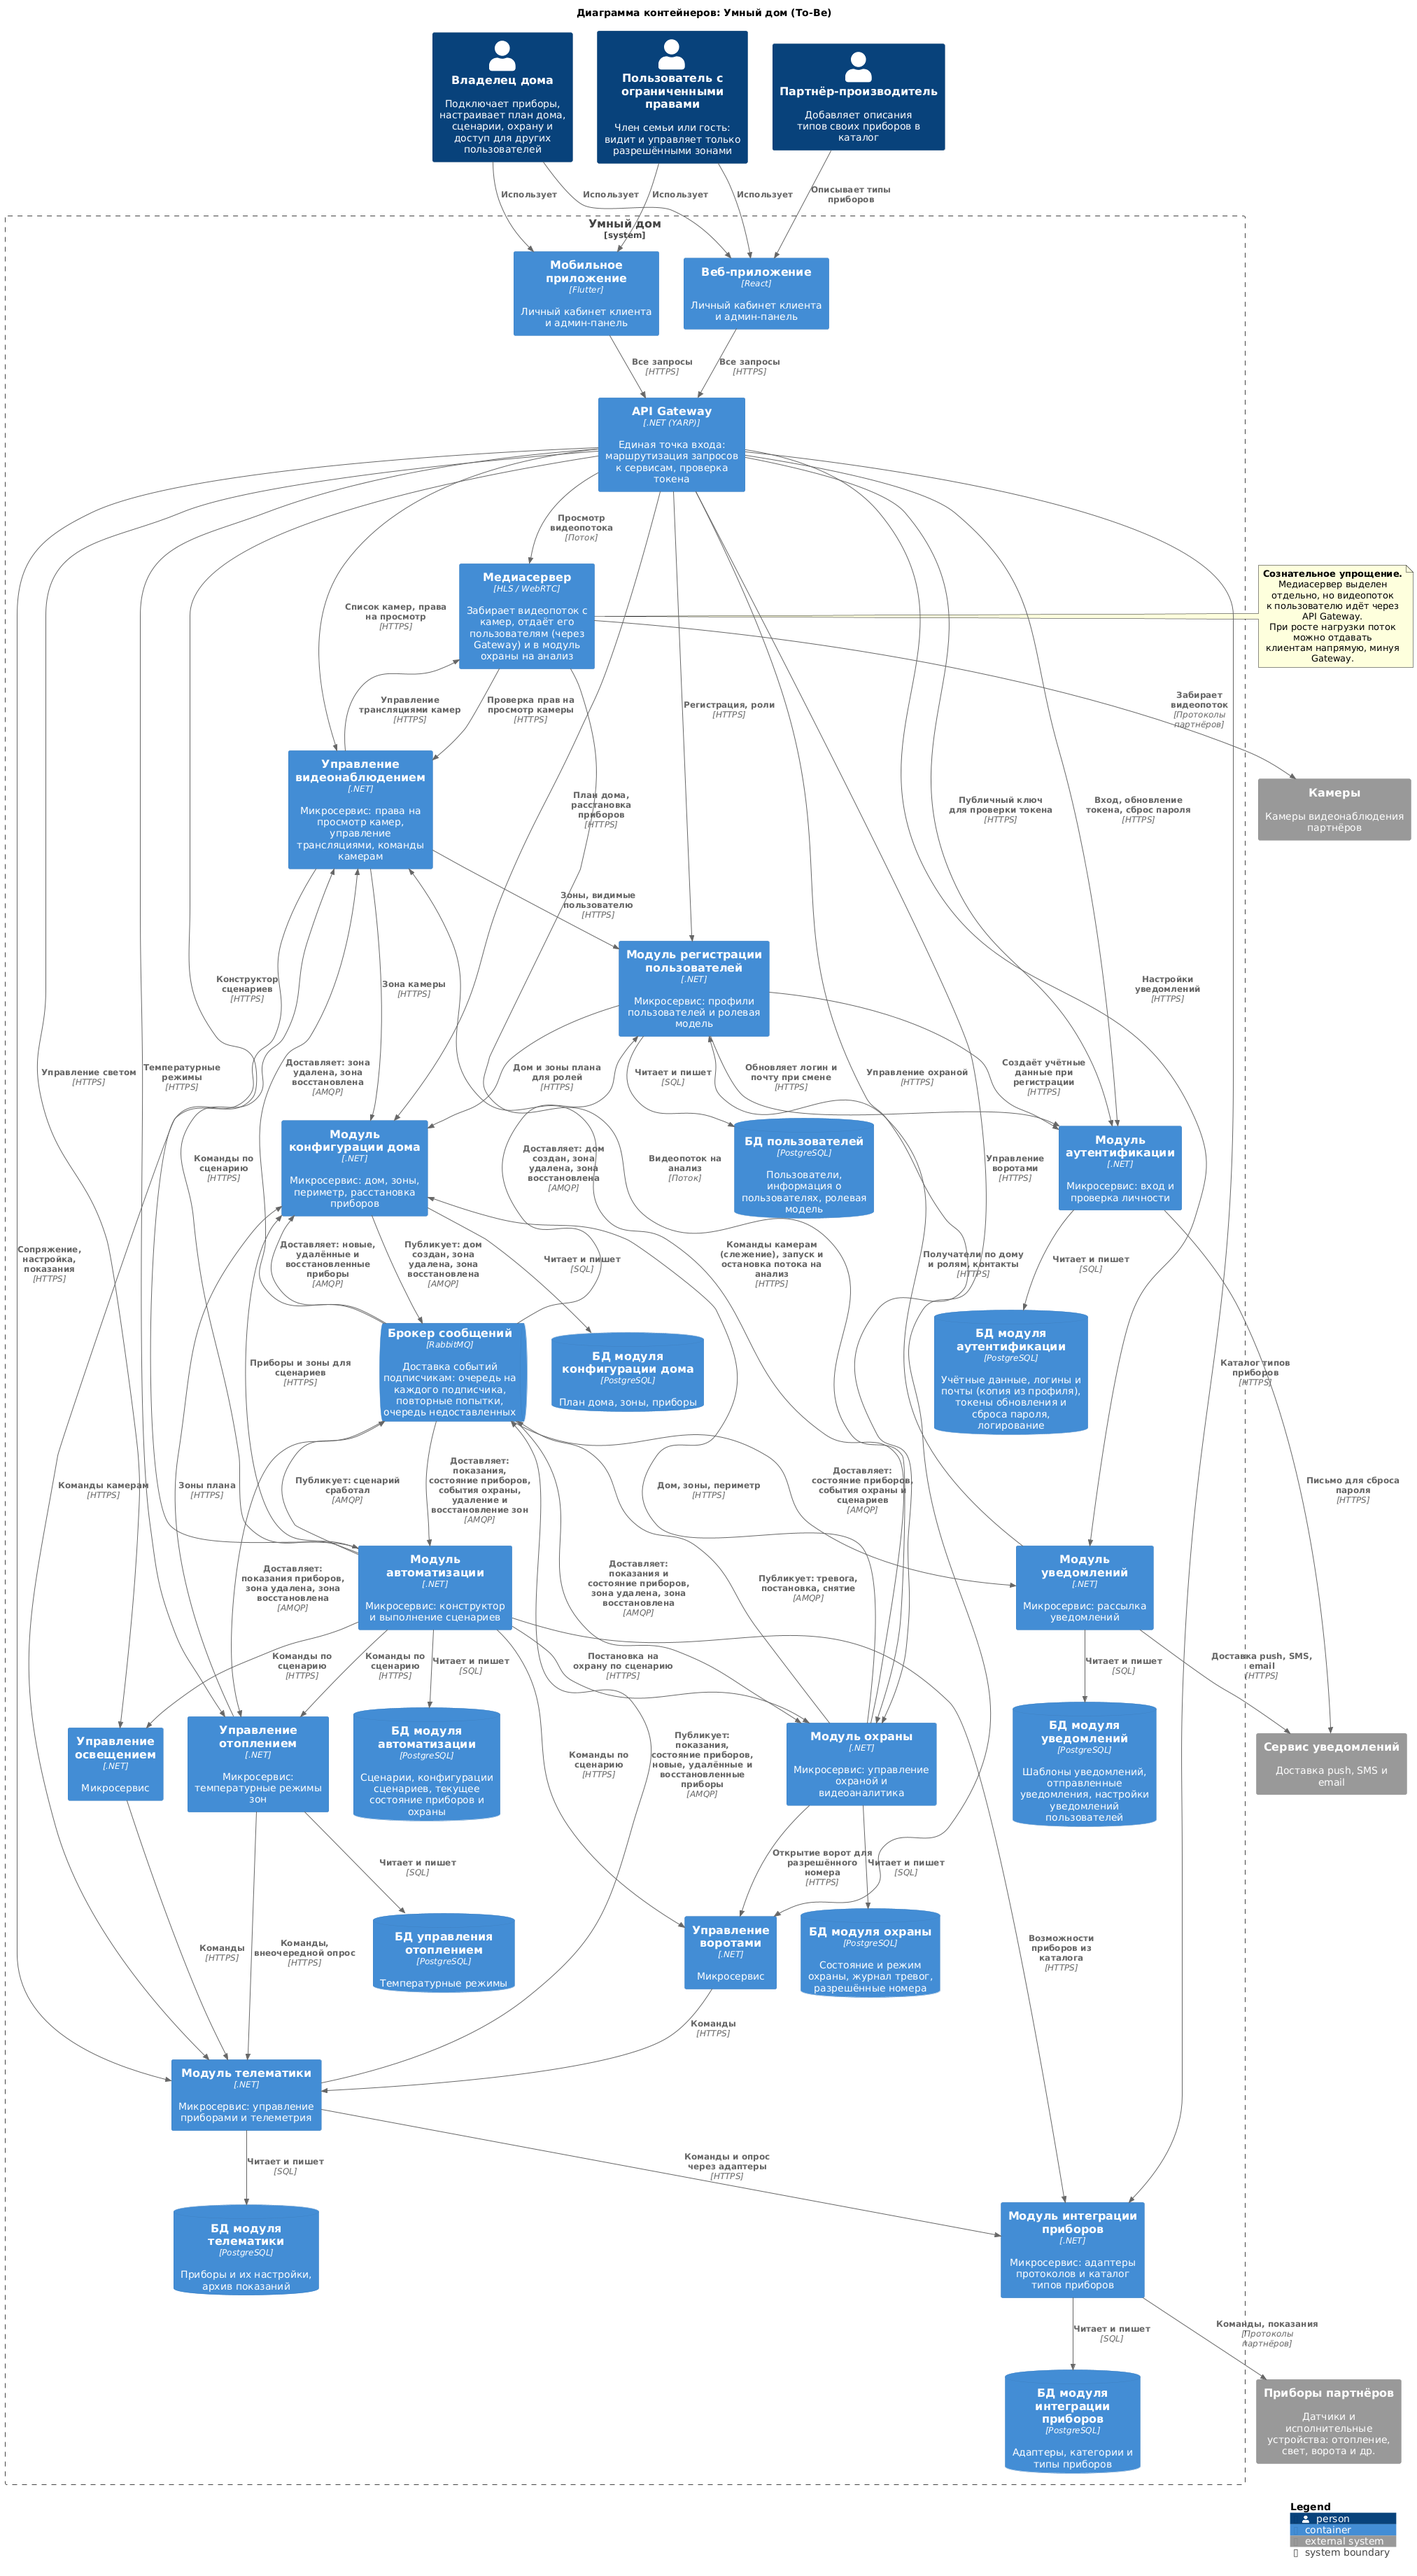
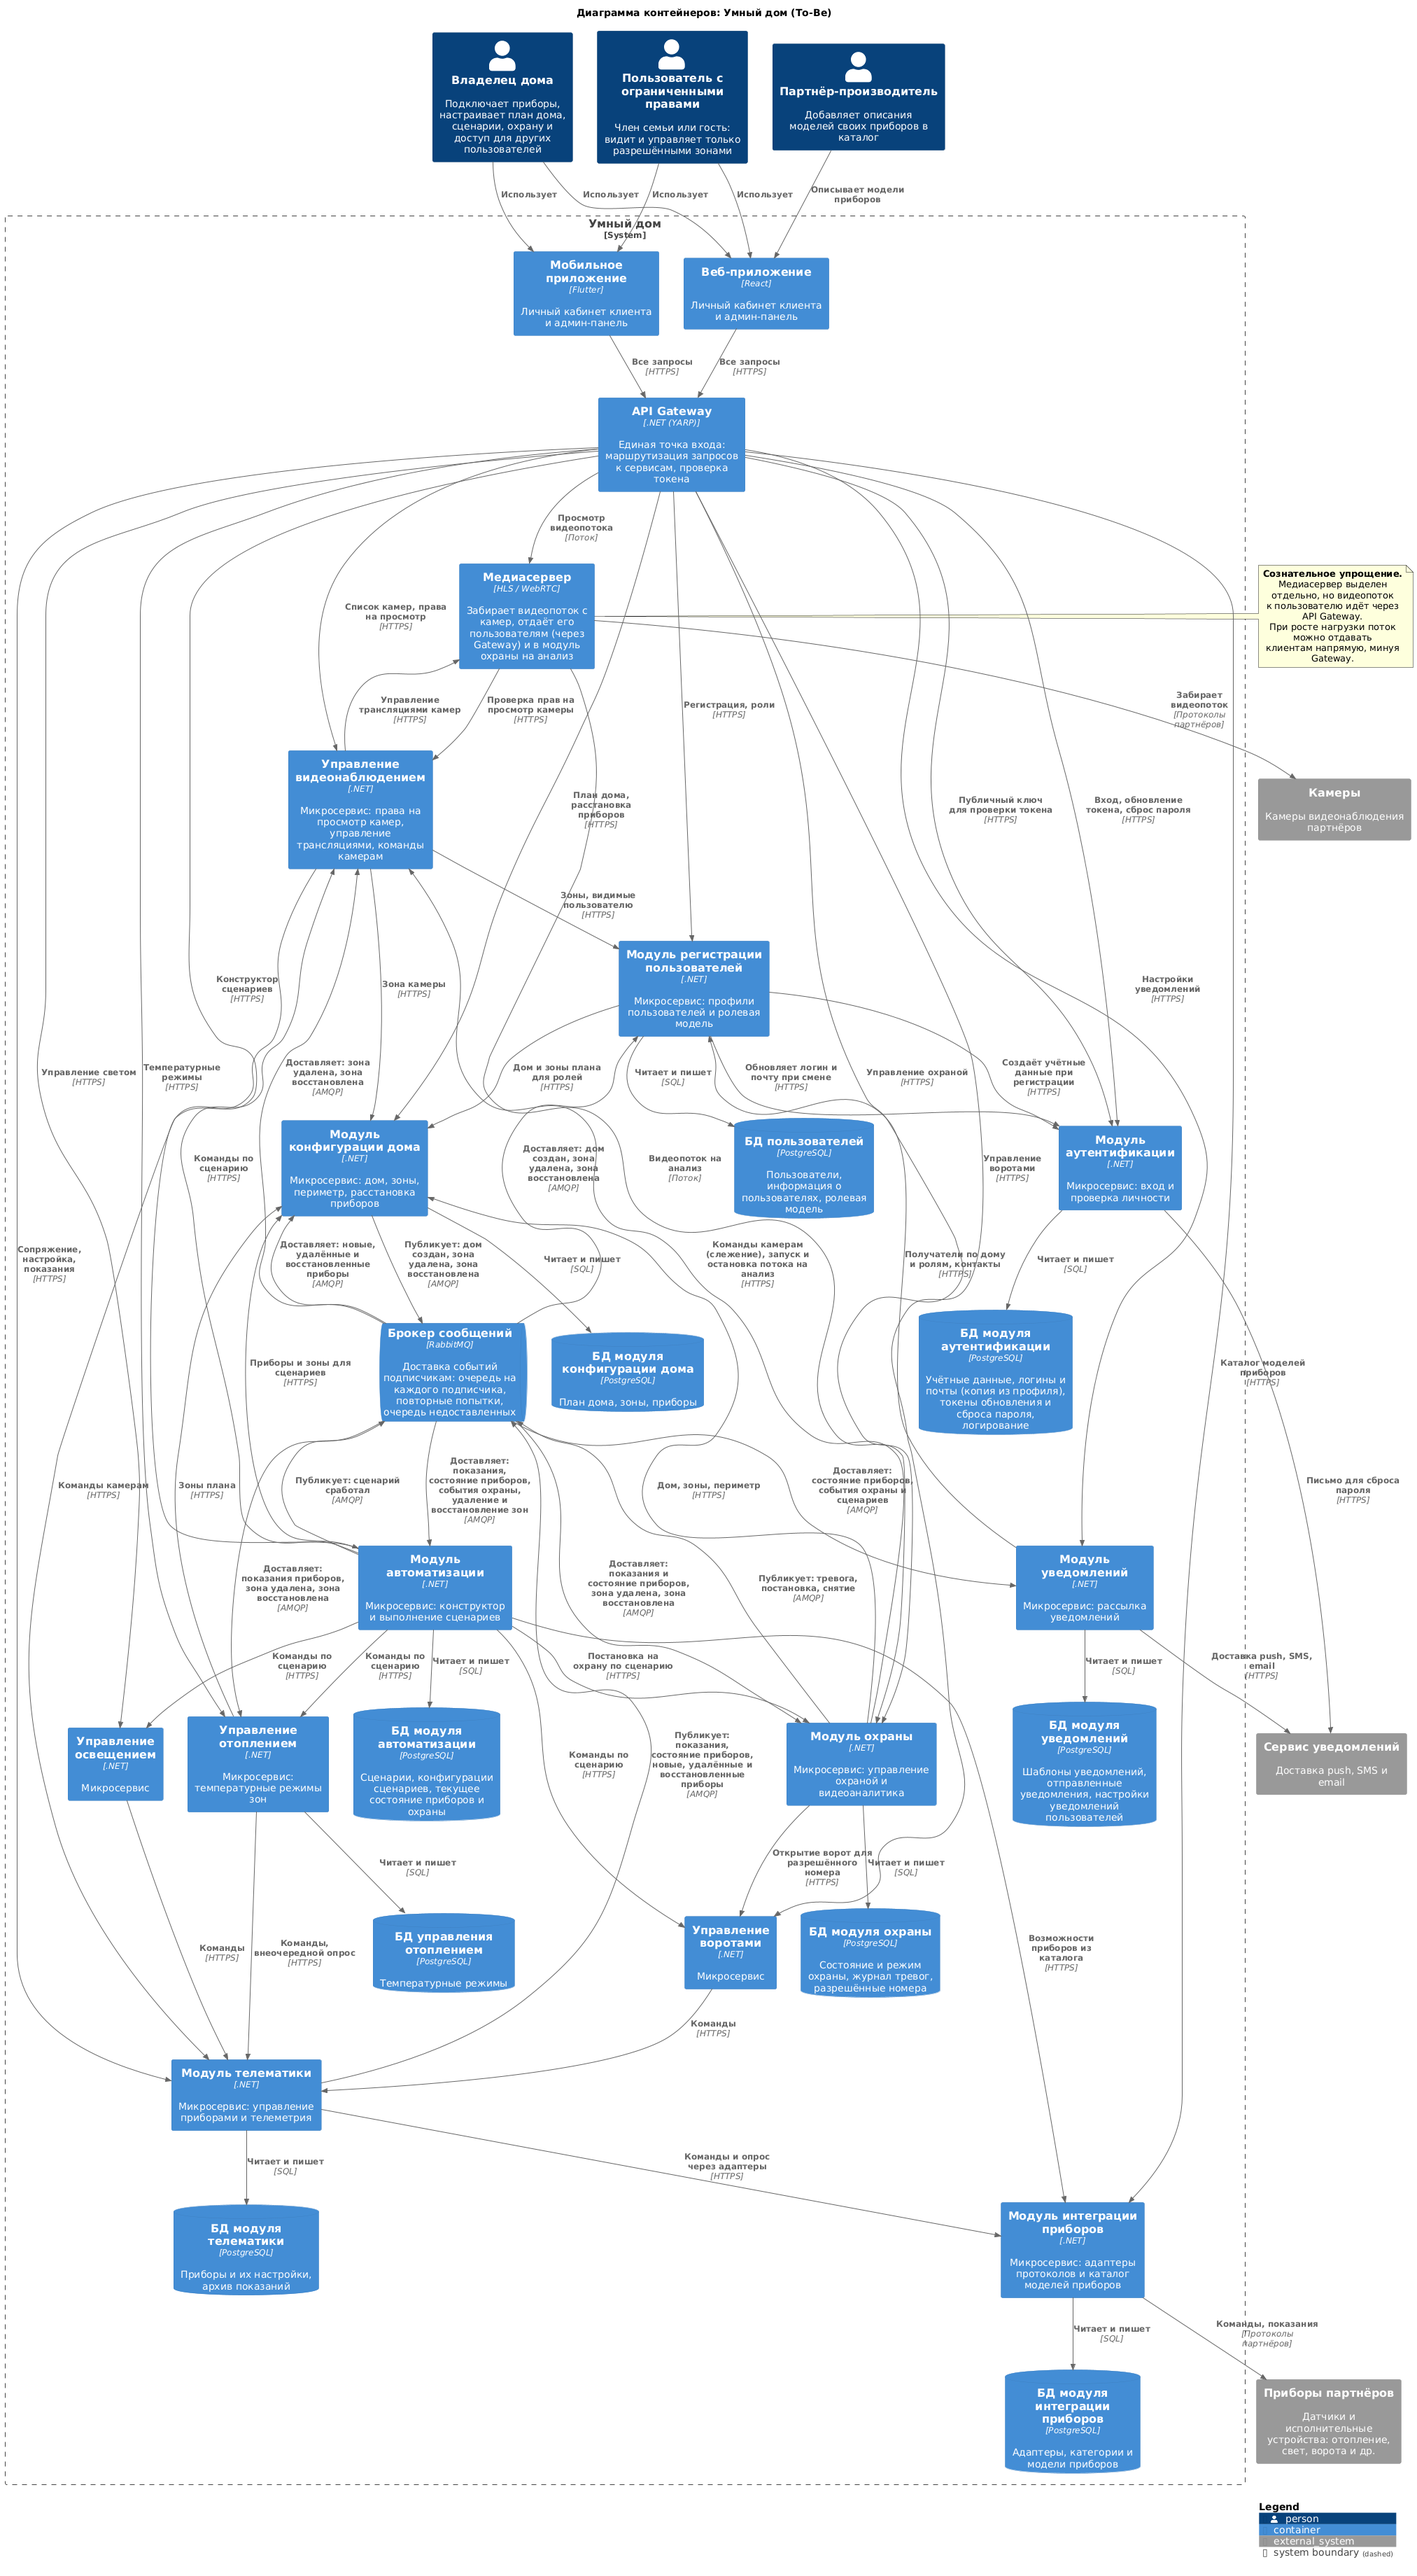
Переименование: «Тип прибора» → «Модель прибора» (каталог, ER, API); «контексты своего типа» → «своей категории»

Changed region(s): [[0.6222, 0.4375, 0.7778, 0.5625], [0.8711, 0.9688, 0.9644, 1.0], [0.4978, 0.4688, 0.5911, 0.5]]

diff --git a/diagrams/domains.md b/diagrams/domains.md
@@ -64,10 +64,10 @@
       партнёров в единую внутреннюю модель показаний и команд;
       «Телеметрия» и «Передача команд на приборы» работают
       с приборами через адаптеры)
-    - Контекст: Каталог типов приборов (описание типа как данных:
+    - Контекст: Каталог моделей приборов (описание модели как данных:
       что прибор измеряет, в каких единицах, какие команды принимает;
-      новый тип добавляется записью в каталог без изменения кода;
-      прибор неизвестного типа подключается как универсальный —
+      новая модель добавляется записью в каталог без изменения кода;
+      прибор неизвестной модели подключается как универсальный —
       значение + единица измерения)
 
 - Пользователи [generic]
@@ -89,9 +89,9 @@
     - Контекст: Конструктор сценариев (настройка сценариев работы; это же —
       программирование системы покупателем; приборы и зоны для сценария
       берёт из «Конструктора дома», возможности приборов — показания
-      для условий и команды для действий — из «Каталога типов приборов»)
+      для условий и команды для действий — из «Каталога моделей приборов»)
     - Контекст: Выполнение сценариев (хранит активные сценарии, непрерывно
-      проверяет условия и отдаёт команды через контексты типов приборов;
+      проверяет условия и отдаёт команды через контексты категорий приборов;
       отделено от конструктора из-за разного характера работы: конструирование
       редкое, выполнение непрерывное). Условия сценариев:
         - показания приборов — от «Телеметрии»;
@@ -147,7 +147,7 @@
   его владельцем. «Пользователи» и «Управление охраной» ссылаются
   на дом и зоны по идентификатору и хранят только своё.
 - Управление: пользователь, «Автоматизация» и «Управление охраной»
-  управляют приборами через контексты своего типа (отопление, освещение,
+  управляют приборами через контексты своей категории (отопление, освещение,
   ворота, камеры); те передают команды через «Передачу команд на приборы».
 - Данные: показания приборов идут только через «Телеметрию».
   Исключение: видеопоток «Видеонаблюдение» получает с камер само,
